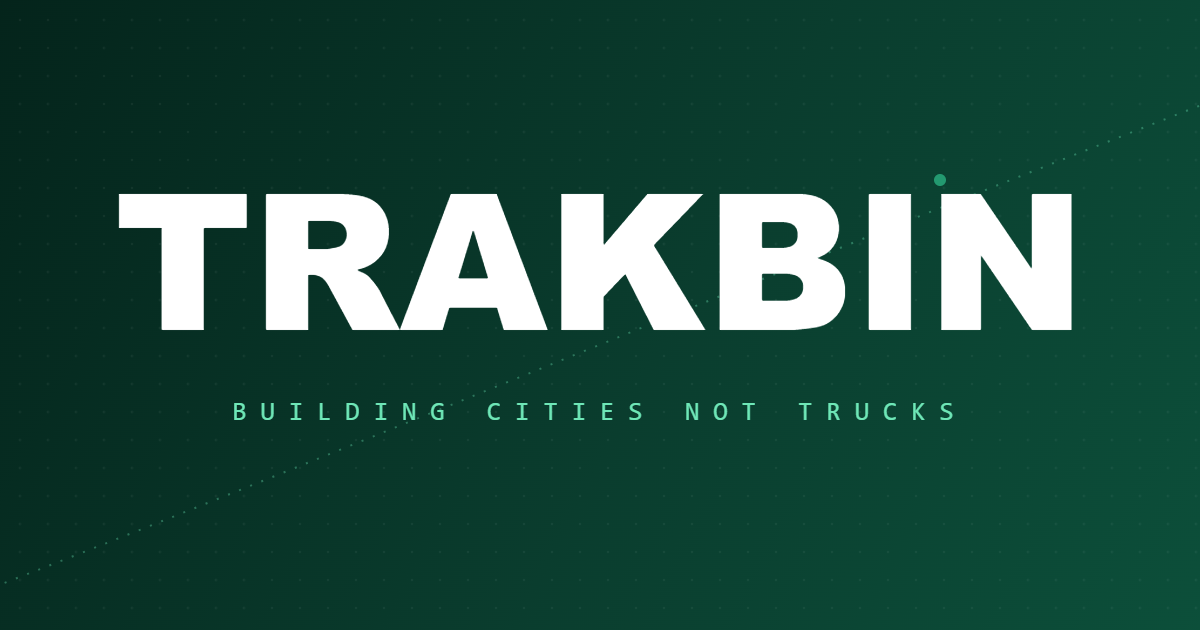
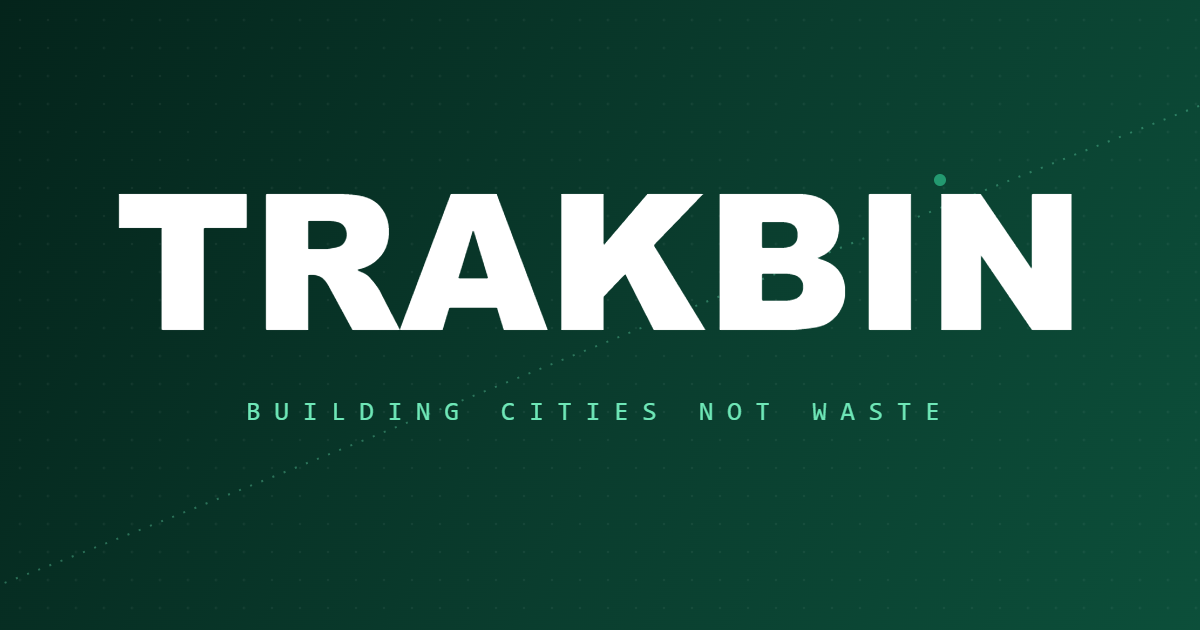
og image: new tagline

Changed region(s): [[0.185, 0.6333, 0.8017, 0.6635]]

diff --git a/content/site.ts b/content/site.ts
@@ -1,6 +1,6 @@
 export const site = {
   name: "TRAKBIN",
-  tagline: "Building cities not trucks",
+    tagline: "Building cities, not waste",
   hero: {
     headline: "The digital infrastructure for modern waste management.",
     sub: "Trakbin connects properties, waste operators, businesses and waste agencies through one intelligent operational system, bringing collection, routing, field intelligence and environmental visibility into a single platform.",
